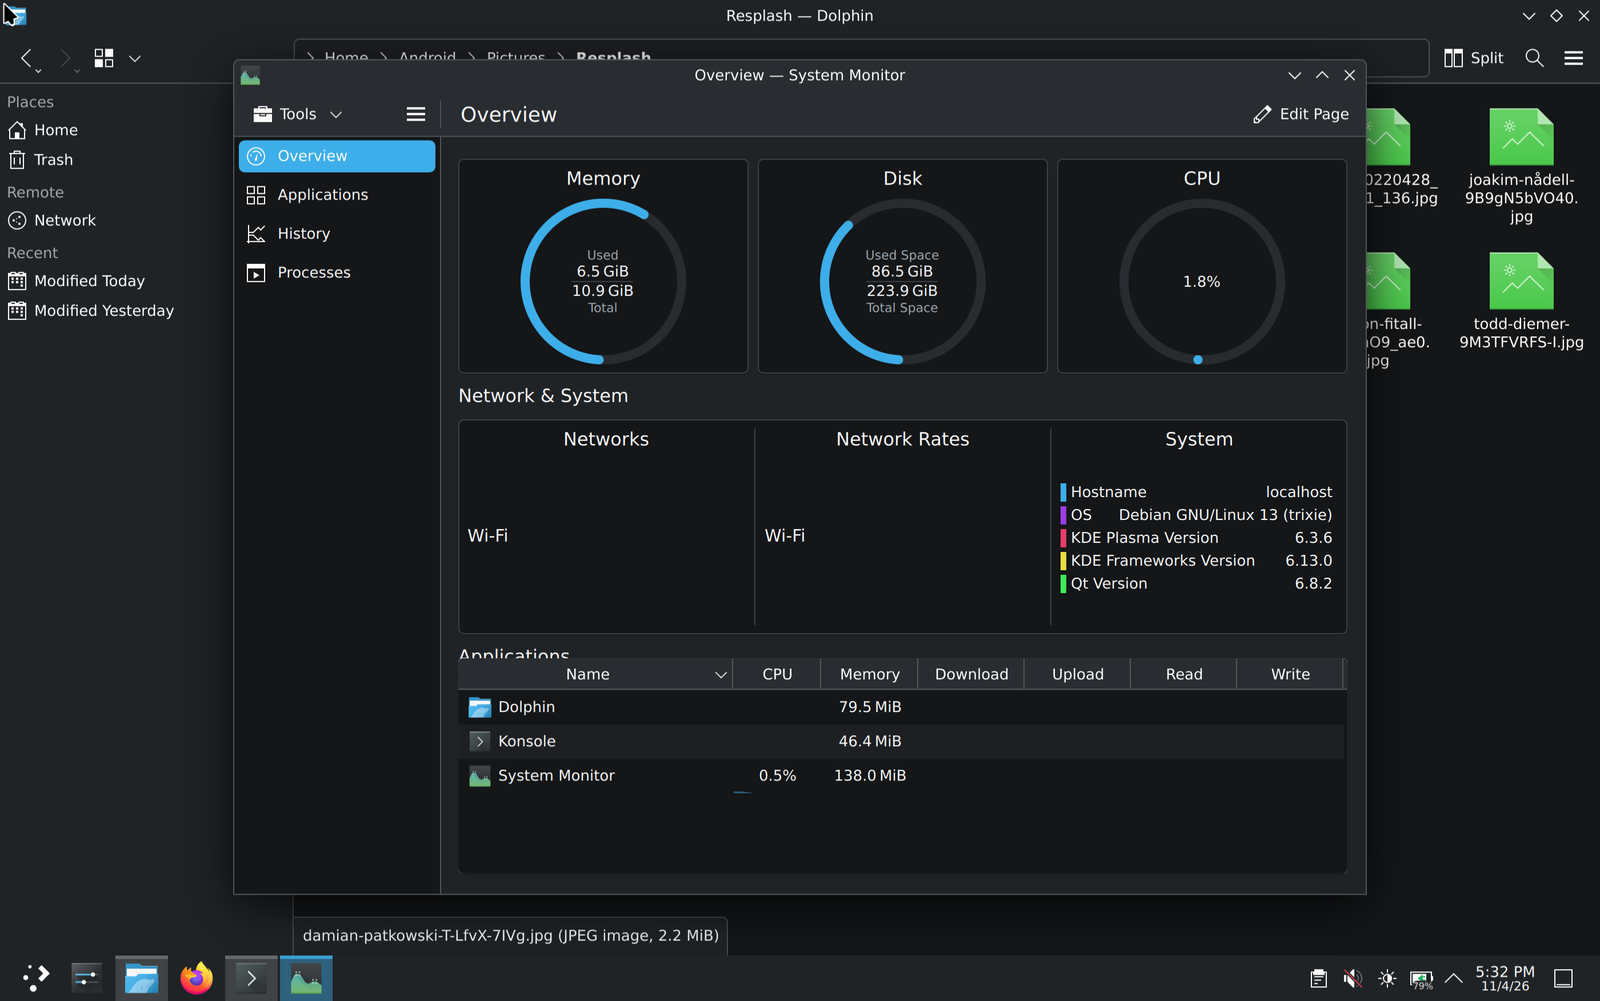
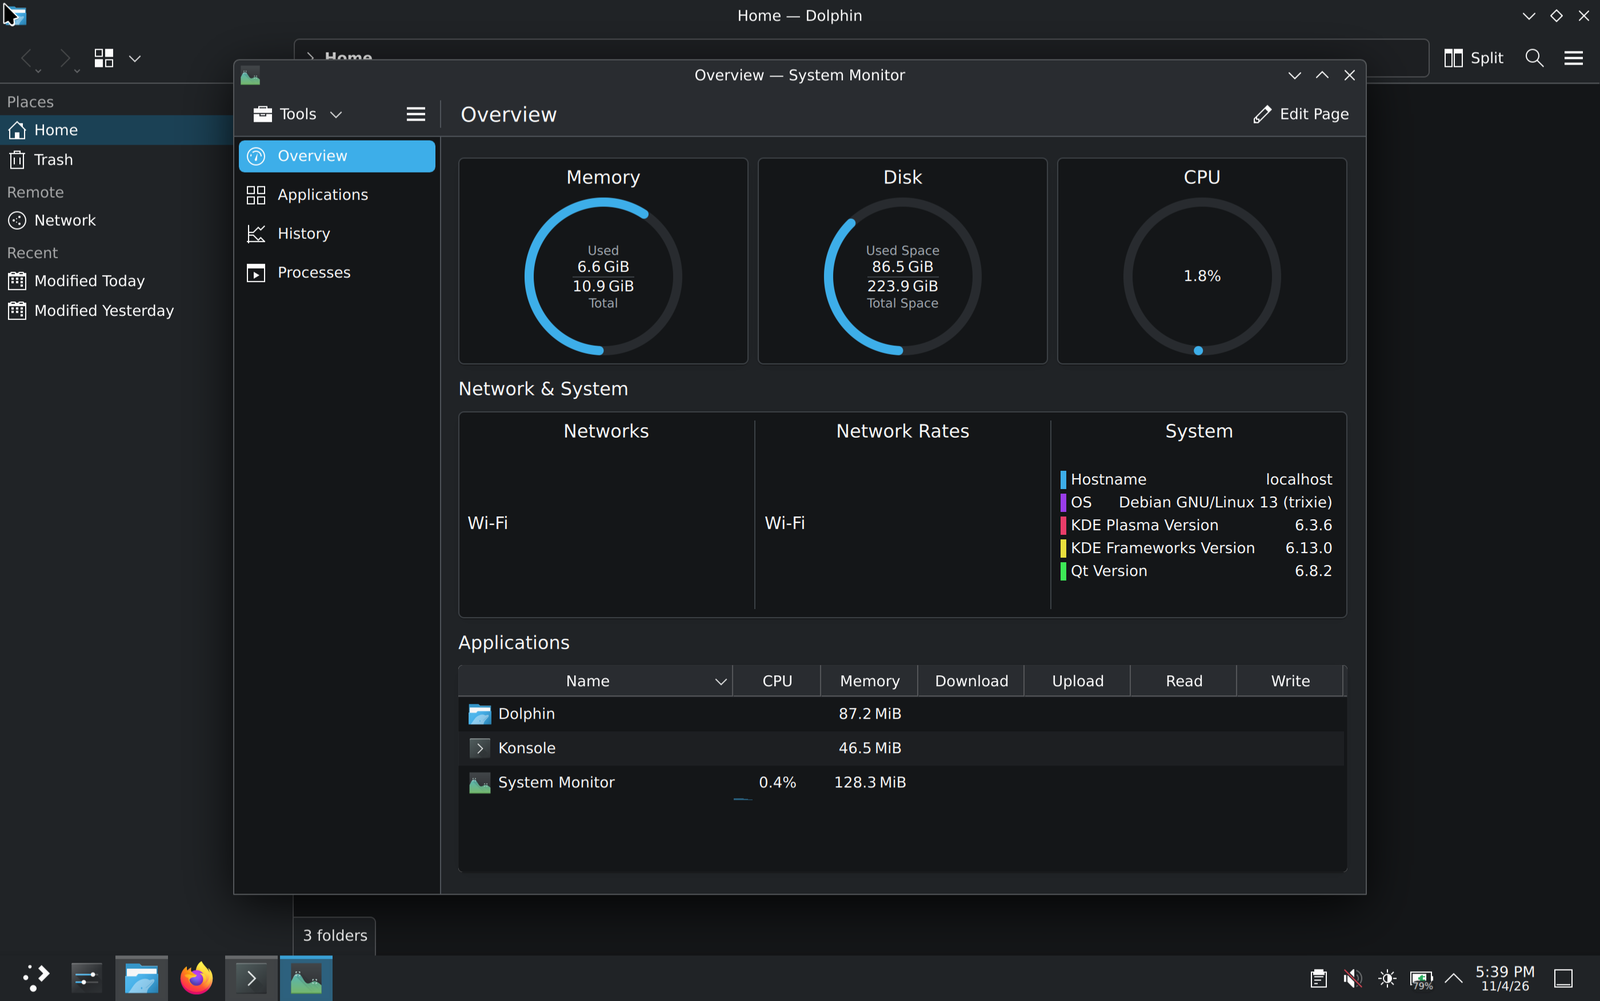
README: the home screen first, screenshots without personal files
- The home screen right after the warning; the desktop joins the screenshots
- Desktop, panel and keyboard taken again with Dolphin in an empty home folder
- Adreno for hardware acceleration; other devices (Mali, Tensor) run without it

diff --git a/README.md b/README.md
@@ -10,7 +10,7 @@ phones.
 > DroidNux is in early development and has no release yet. It is tested on a Galaxy Tab S9+ and a Galaxy S26 Ultra.
 
 <p align="center">
-  <img src=".github/screenshots/desktop.png" alt="Plasma with Dolphin, System Monitor and Konsole" width="100%">
+  <img src=".github/screenshots/home.png" alt="Home: the desktop, favorites and all apps" width="100%">
 </p>
 
 ## What you get
@@ -48,17 +48,19 @@ phones.
 ## Screenshots
 
 <p align="center">
-  <img src=".github/screenshots/home.png" alt="Home: the desktop, favorites and all apps" width="49%">
-  <img src=".github/screenshots/store.png" alt="Store: featured apps and categories" width="49%">
+  <img src=".github/screenshots/desktop.png" alt="Plasma with Dolphin and System Monitor" width="49%">
+  <img src=".github/screenshots/session-menu.png" alt="The in-session panel" width="49%">
 </p>
 <p align="center">
-  <img src=".github/screenshots/session-menu.png" alt="The in-session panel" width="49%">
+  <img src=".github/screenshots/store.png" alt="Store: featured apps and categories" width="49%">
   <img src=".github/screenshots/keyboard.png" alt="The PC keyboard over the desktop" width="49%">
 </p>
 
 ## Requirements
 
-- Android 10 or later, arm64, with a **Snapdragon (Adreno) GPU**.
+- Android 10 or later, arm64.
+- A **Snapdragon (Adreno) GPU** for hardware acceleration. DroidNux also runs on other devices without it, such as
+  the Galaxy Tab S9 FE (Mali) and the Pixel 9a (Tensor).
 - Linux kernel 5.10 or later.
 - A few GB of free space: the base install takes about 2 GB.
 - In Android's developer options, "Disable child process restrictions": without it, Android stops the desktop once it
